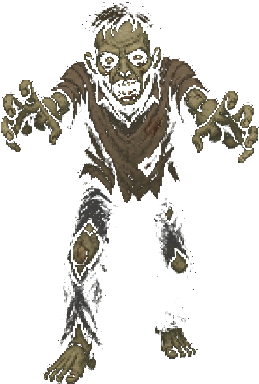
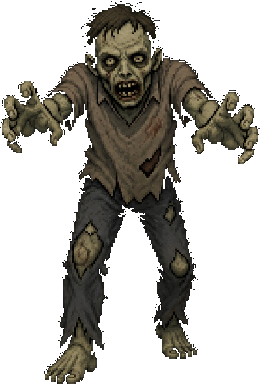
Add rusher + tank sprites and per-type render scale
Drop in the supplied rusher and tank artwork, processed with a corner-seeded
flood fill (low threshold) so only the true black background goes
transparent — internal muscle/shadow lines are preserved unlike the
previous global chroma-key pass that also nuked dark interior pixels.

Extend the sprite registry with an opts.scale field. The renderer now
honors each sprite's native aspect ratio and bottom-anchors the billboard
to ground level, so the tank (registered at scale 1.5) grows upward to
look 1.5× larger than other enemies without sinking into the floor.

Changed region(s): [[0.0, 0.0, 1.0, 1.0]]

diff --git a/js/raycaster.js b/js/raycaster.js
@@ -231,19 +231,34 @@ const Raycaster = (() => {
     const proj = projectSprite(player, e.x, e.y);
     if (!proj) return;
     const horizon = H / 2 + horizonOffset;
-    const spriteH = Math.floor(H / proj.dist);
-    const spriteW = spriteH;
-    const drawStartY = Math.floor(horizon - spriteH / 2);
-    const drawStartX = proj.screenX - Math.floor(spriteW / 2);
+    const baseH = H / proj.dist;
+    const def = e.type;
+    const flash = e.hitFlash > 0;
+    const sprite = (typeof Sprites !== 'undefined') ? Sprites.get(def.id) : null;
+
+    let spriteH, spriteW, drawStartX, drawStartY;
+    if (sprite) {
+      // Honor the sprite's native aspect ratio and per-type render scale, and
+      // bottom-anchor so larger enemies (e.g. tank ×1.5) grow upward instead
+      // of sinking into the floor.
+      const scale = sprite.scale || 1;
+      const aspect = sprite.w / sprite.h;
+      spriteH = Math.floor(baseH * scale);
+      spriteW = Math.floor(spriteH * aspect);
+      const groundedBottom = horizon + baseH / 2;
+      drawStartY = Math.floor(groundedBottom - spriteH);
+      drawStartX = proj.screenX - Math.floor(spriteW / 2);
+    } else {
+      spriteH = Math.floor(baseH);
+      spriteW = spriteH;
+      drawStartY = Math.floor(horizon - spriteH / 2);
+      drawStartX = proj.screenX - Math.floor(spriteW / 2);
+    }
 
     const x0 = Math.max(0, drawStartX);
     const x1 = Math.min(W - 1, drawStartX + spriteW);
     const fog = Math.min(1, proj.dist / theme.fogDist);
     const lightFactor = theme.ambient * (1 - fog * 0.6);
-
-    const def = e.type;
-    const flash = e.hitFlash > 0;
-    const sprite = (typeof Sprites !== 'undefined') ? Sprites.get(def.id) : null;
 
     if (sprite) {
       drawImageBillboard(sprite, drawStartX, drawStartY, spriteW, spriteH,

diff --git a/js/sprite.js b/js/sprite.js
@@ -5,15 +5,16 @@
 const Sprites = (() => {
   const cache = new Map();
 
-  function register(typeId, source) {
+  function register(typeId, source, opts) {
+    const scale = (opts && opts.scale) || 1;
     if (typeof source === 'function') {
       const cv = source();
-      cache.set(typeId, { canvas: cv, w: cv.width, h: cv.height, ready: true });
+      cache.set(typeId, { canvas: cv, w: cv.width, h: cv.height, ready: true, scale });
       return;
     }
     // String → treat as image URL. Loads asynchronously; until ready, get()
     // returns null and the renderer keeps using the rectangle fallback.
-    const entry = { canvas: null, w: 0, h: 0, ready: false };
+    const entry = { canvas: null, w: 0, h: 0, ready: false, scale };
     cache.set(typeId, entry);
     const img = new Image();
     img.onload = () => {
@@ -141,8 +142,9 @@ const Sprites = (() => {
 })();
 
 // Default registrations. Add more lines like:
-//   Sprites.register('rusher', 'assets/rusher.png');
-// and the renderer will pick them up automatically.
-// grunt loads from a chroma-keyed PNG; while it streams in, the renderer
-// falls back to its procedural rectangle silhouette.
-Sprites.register('grunt', 'assets/zombie.png');
+//   Sprites.register('boss', 'assets/boss.png', { scale: 2 });
+// and the renderer will pick them up automatically. While an asset streams
+// in, the renderer falls back to its procedural rectangle silhouette.
+Sprites.register('grunt',  'assets/zombie.png');
+Sprites.register('rusher', 'assets/rusher.png');
+Sprites.register('tank',   'assets/tank.png', { scale: 1.5 });
